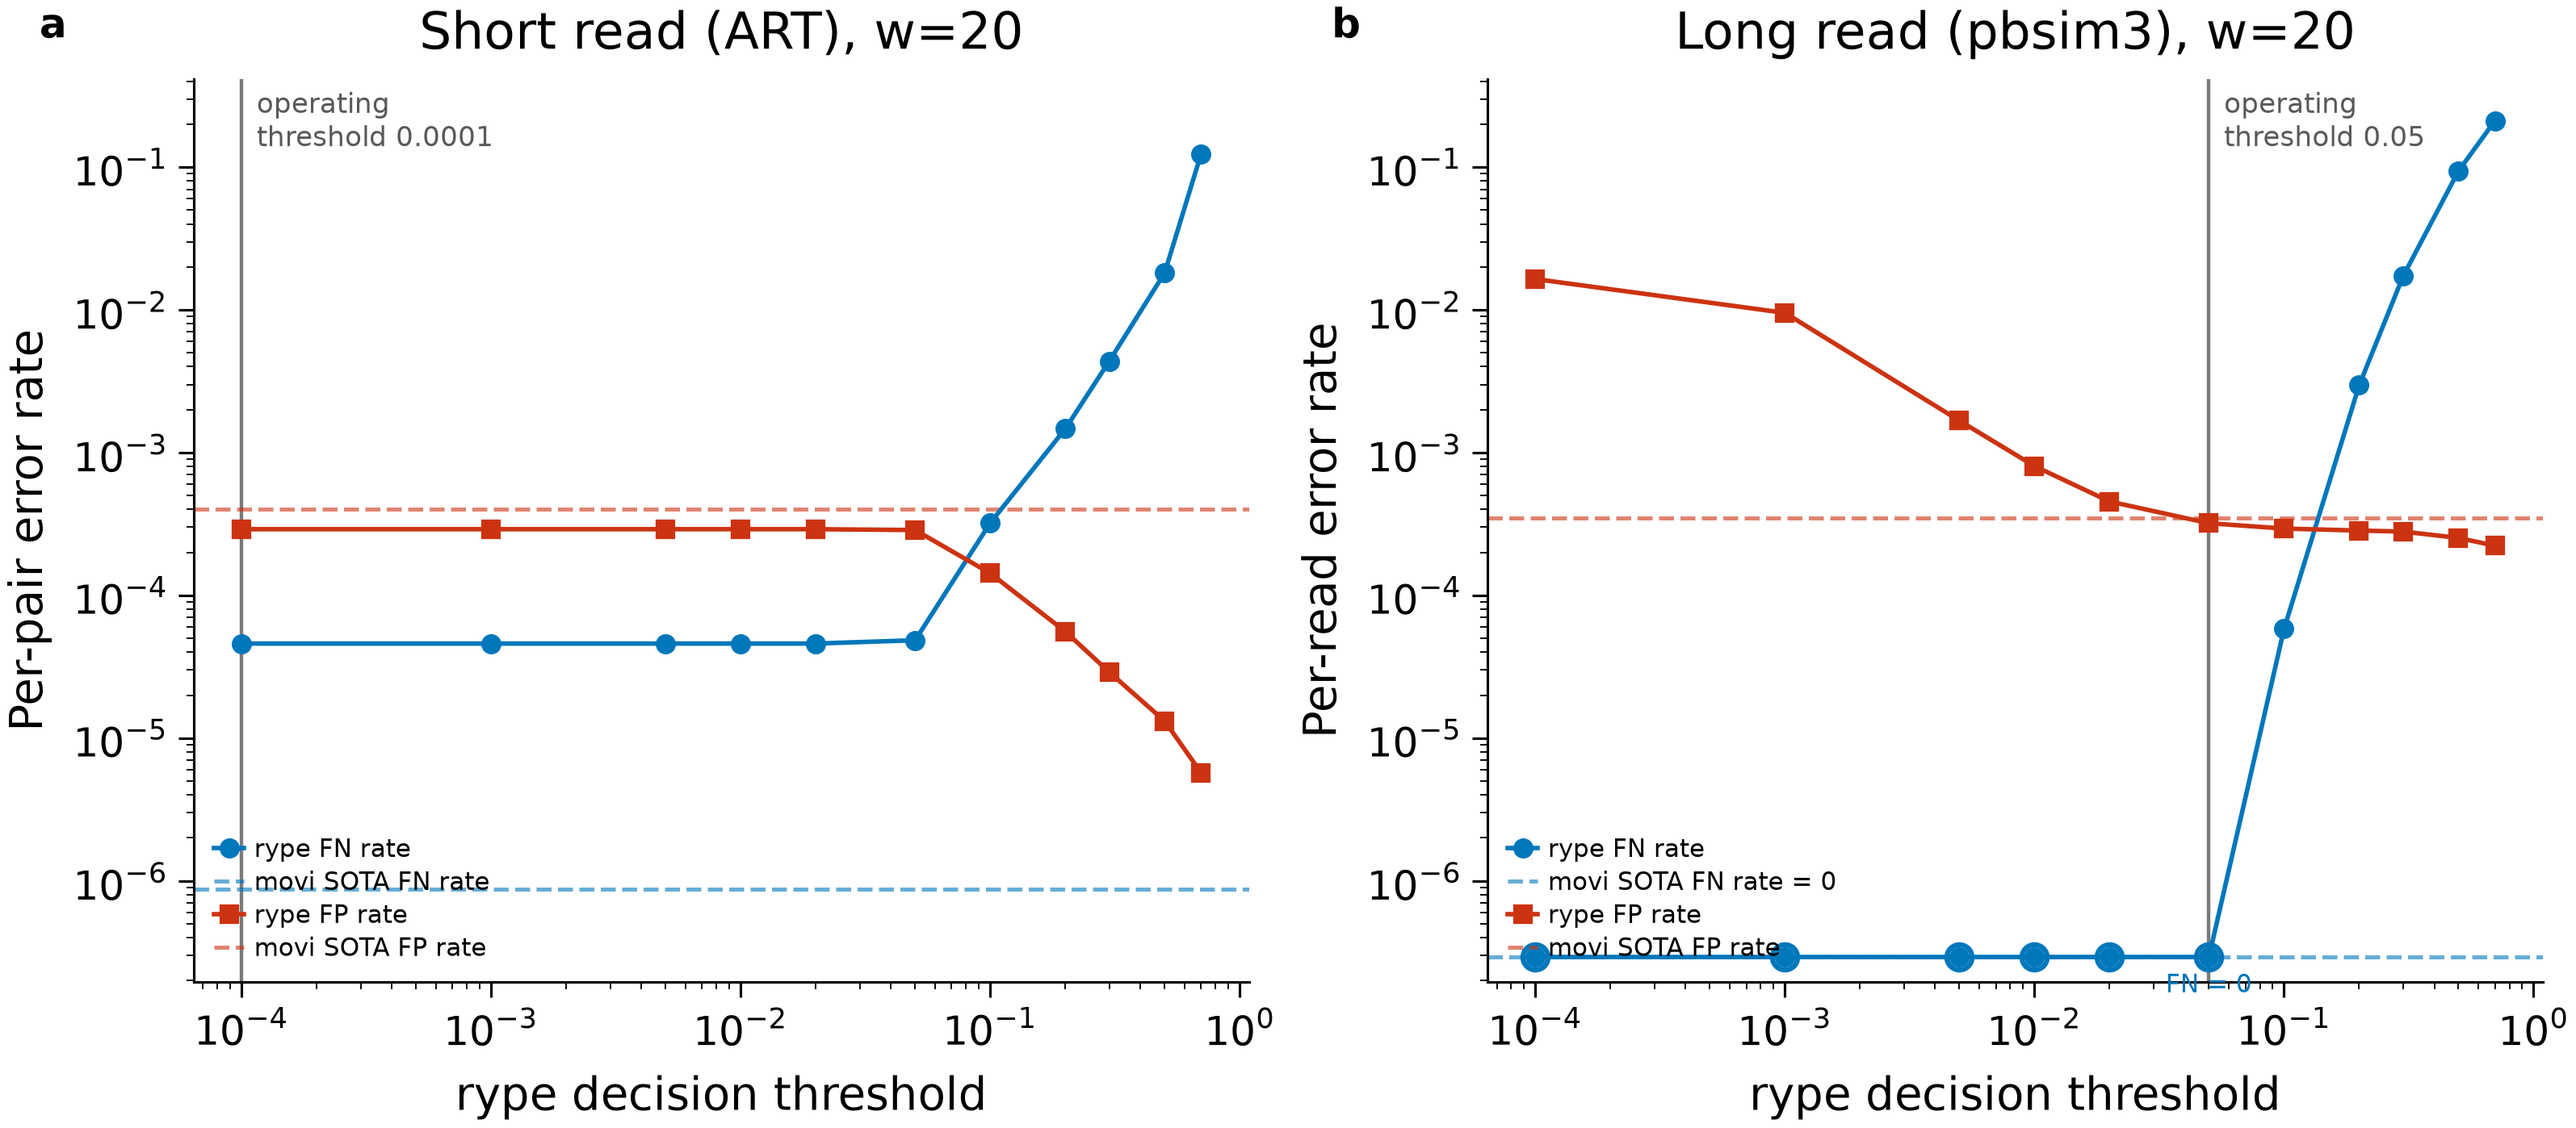
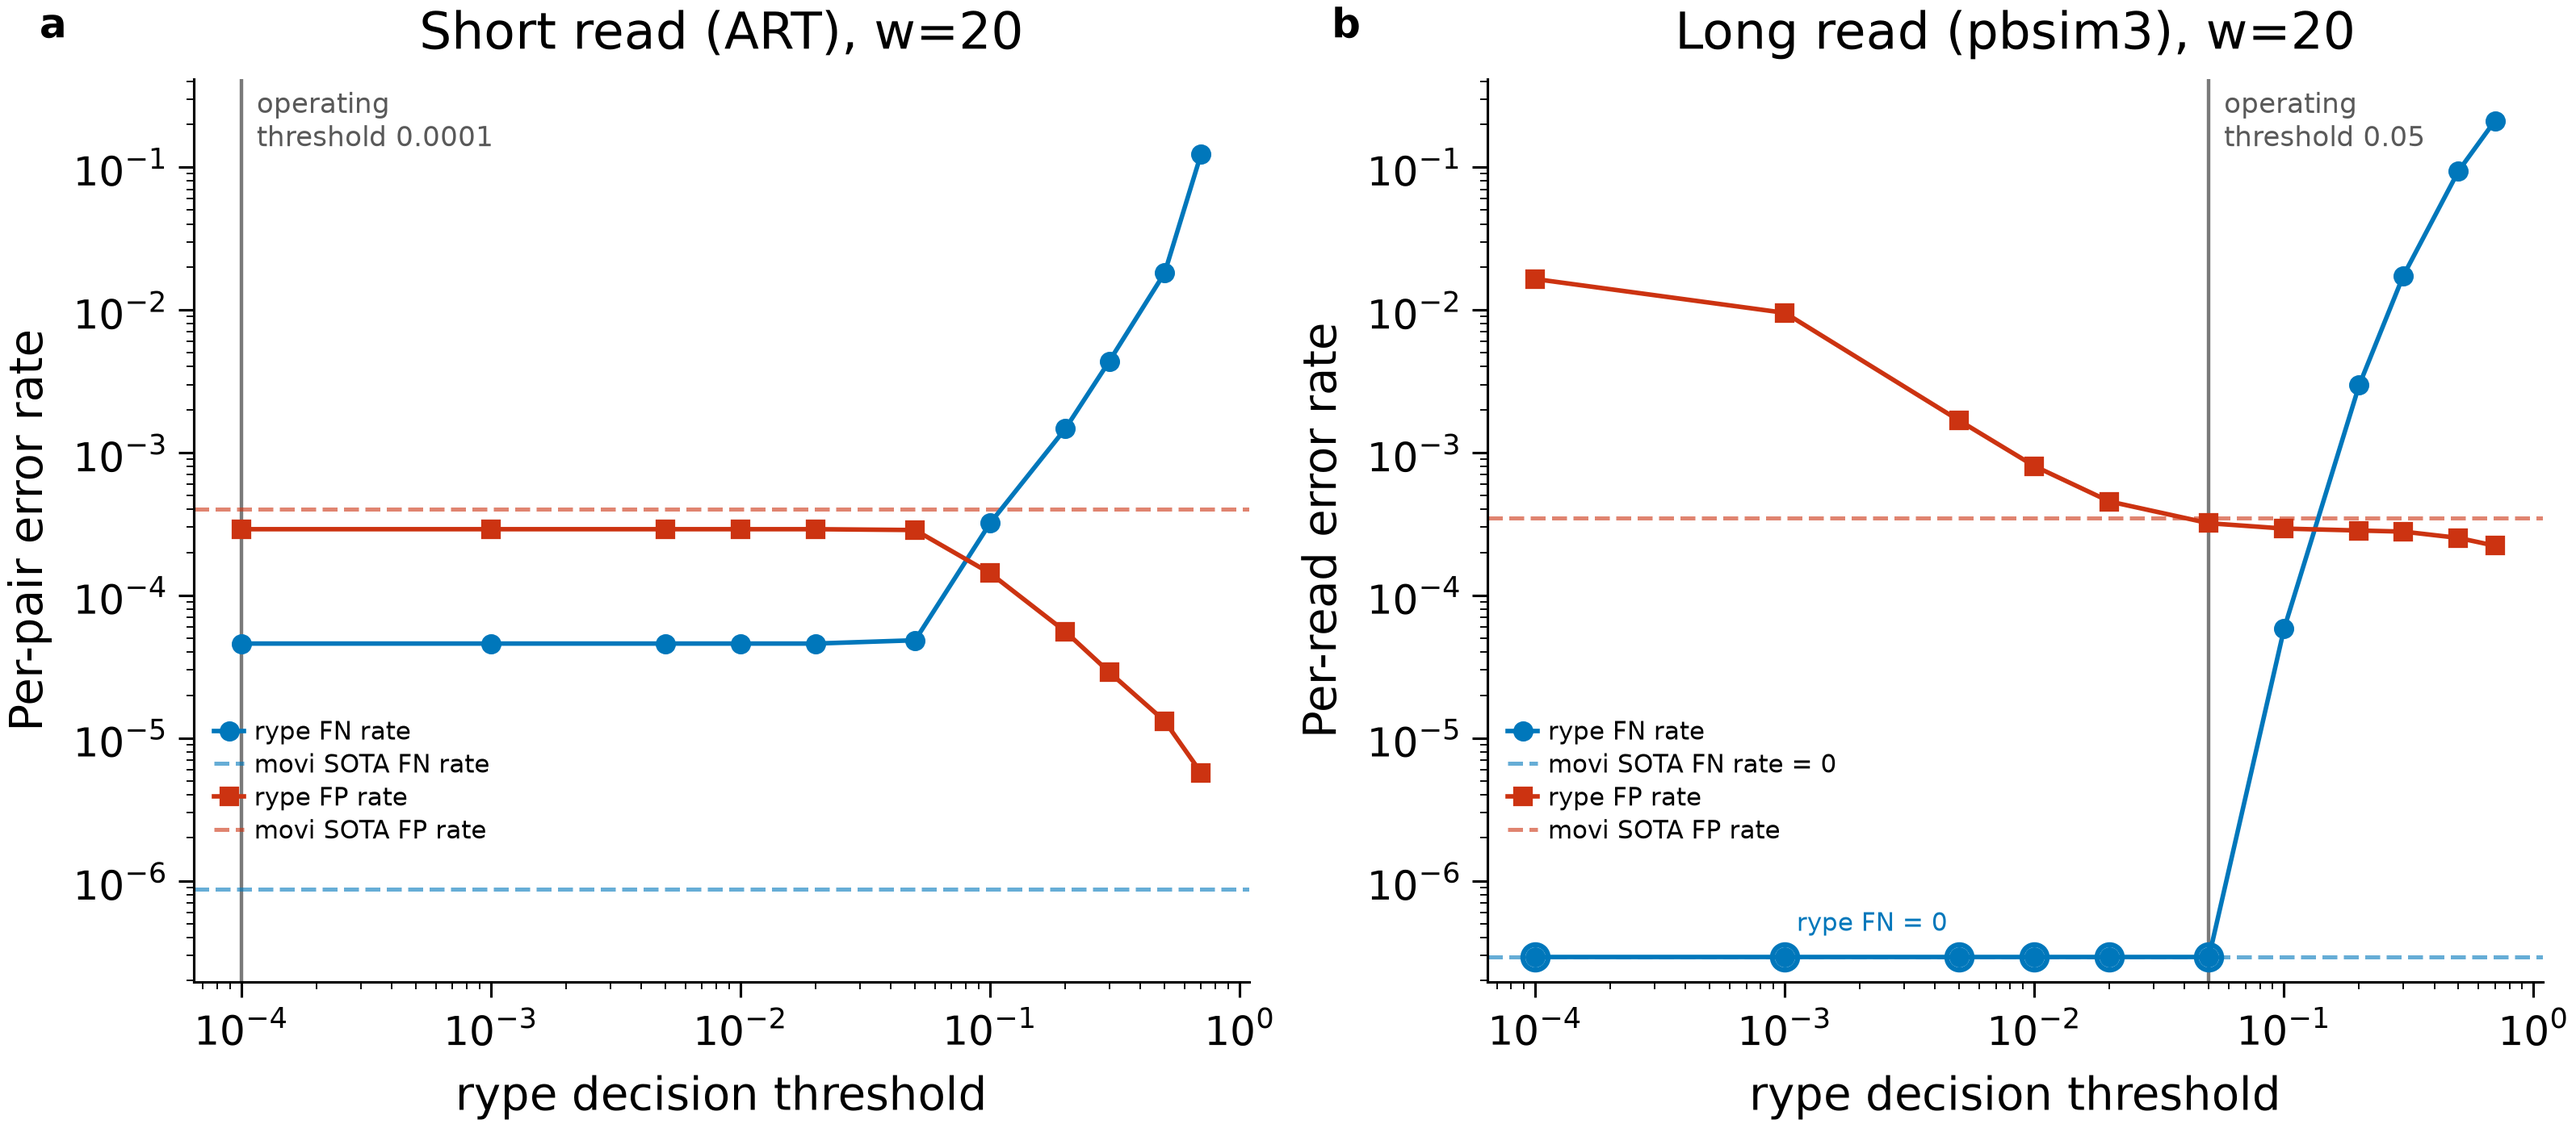
Threshold-sweep figure: move legend off the movi FN line, FN = 0 label off the x axis

Changed region(s): [[0.5897, 0.6459, 0.7448, 0.8612], [0.0621, 0.6459, 0.1862, 0.8612], [0.8379, 0.8612, 0.869, 0.892]]

diff --git a/figures/ed_fig2_threshold.py b/figures/ed_fig2_threshold.py
@@ -55,9 +55,12 @@ def plot_panel(ax, mod, title, op_thr, op_label, floor, unit="pair"):
         if z:
             ax.plot(t, y, marker="o", ms=5, mfc="none", mec=FN_COLOR, mew=1.0, zorder=4)
     if any(is_zero):
-        last_zero_t = max(t for t, z in zip(thr, is_zero) if z)
-        ax.annotate("FN = 0", (last_zero_t, floor), textcoords="offset points",
-                    xytext=(0, -7), ha="center", fontsize=5, color=FN_COLOR)
+        # Label the run of zero-FN points from above, centred on it (log x), so
+        # it stays clear of the x axis.
+        zeros = [t for t, z in zip(thr, is_zero) if z]
+        mid_t = (min(zeros) * max(zeros)) ** 0.5
+        ax.annotate("rype FN = 0", (mid_t, floor), textcoords="offset points",
+                    xytext=(0, 4), ha="center", va="bottom", fontsize=5, color=FN_COLOR)
     if movi["fnr"] > 0:
         ax.axhline(movi["fnr"], ls="--", lw=0.8, color=FN_COLOR, alpha=0.6, label="movi SOTA FN rate")
     else:
@@ -68,7 +71,9 @@ def plot_panel(ax, mod, title, op_thr, op_label, floor, unit="pair"):
     ax.set_xlabel("rype decision threshold")
     ax.set_ylabel(f"Per-{unit} error rate")
     ax.set_title(title)
-    ax.legend(loc="lower left", fontsize=5)
+    # Raised off the bottom so the movi SOTA FN line (and the zero-FN floor)
+    # pass below it rather than through it.
+    ax.legend(loc="lower left", bbox_to_anchor=(0, 0.13), fontsize=5)
 
 
 set_nature_style()
